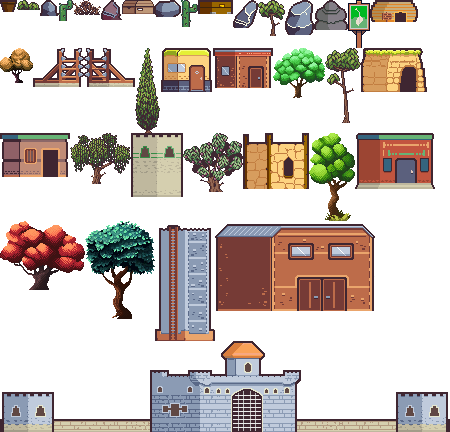
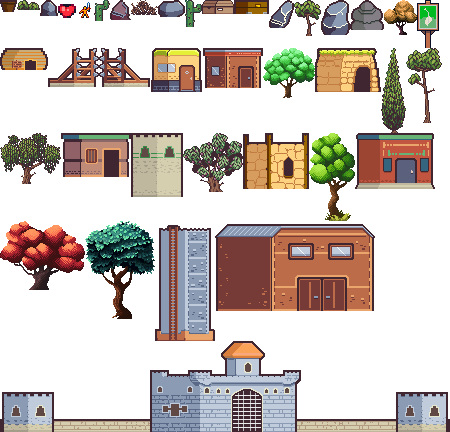
Collectible functionality
Created the functionality for collectible items. 1 time use will destroy after usage.

Changed region(s): [[0.0, 0.0, 0.9956, 0.4213]]

diff --git a/src/scenes/PlayScene.js b/src/scenes/PlayScene.js
@@ -85,6 +85,36 @@ export class PlayScene extends Scene {
     camera.startFollow(player, true, .8);
     this.player = player;
 
+    //  Collectible
+
+    const item = this.physics.add.sprite(startX + width * .5 + 40, Vars.GROUND_TOP + 2, "atlas", "collect_troops");
+    item.setOrigin(.5, 1);
+    item.isCollected = false;
+
+    this.add.tween({
+      targets: item,
+      duration: 750,
+      ease: "Power2",
+      repeat: -1,
+      yoyo: true,
+      y: {from:item.y, to: item.y - 4},
+      alpha: {from:.3, to:1},
+    });
+
+    //  Collision
+
+    this.physics.add.overlap(player, item, itemCollect, null, this); 
+    function itemCollect(player, item) {
+      
+      if (!item.isCollected) {
+        console.log('Collision detected!');
+
+        item.body.checkCollision.none = true;   // Disable collisions
+        item.destroy();
+        item.isCollected = true;
+      }
+    }
+
     //  Shadows   -----------------------------------------------------------------------------------
 
     this.shadows = new Shadow(graphics);
